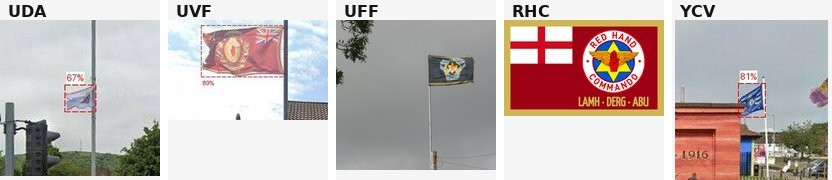
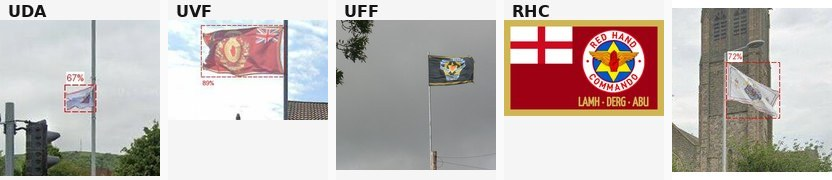
Use Freedom Corner white YCV flag as classic org exemplar.
White field + red-hand/shamrock is a common YCV variant reviewers were missing; update miniature, strip, and org hint text.

Changed region(s): [[0.7812, 0.0278, 1.0, 1.0]]

diff --git a/streamlit_app.py b/streamlit_app.py
@@ -35,7 +35,7 @@ ORG_PATTERNS = [
     ("UVF", "#6B3FA0", "purple / mauve field, central roundel (crown + Red Hand)"),
     ("UFF", "#212121", "black field, yellow star + fist/Red Hand, Feriens Tego / Ulster Freedom Fighters"),
     ("RHC", "#B71C1C", "red field, Red Hand Commando badge / fist motif"),
-    ("YCV", "#1A237E", "modern: navy + thin white stripes + white star/circle with Red Hand"),
+    ("YCV", "#1A237E", "classic: white field + red hand on shamrock; also navy + white stripes / star"),
 ]
 
 
@@ -47,7 +47,7 @@ def _org_label(code: str) -> str:
         "UVF": "UVF — purple + roundel",
         "UFF": "UFF — black + Feriens Tego",
         "RHC": "RHC — red + Red Hand",
-        "YCV": "YCV — navy + white stripes",
+        "YCV": "YCV — white + shamrock / navy stripes",
         "other_proscribed": "other_proscribed",
         "non_paramilitary": "non_paramilitary",
         "unknown": "unknown",
@@ -81,7 +81,7 @@ def _render_org_guide() -> None:
     with st.expander("Show miniature org examples", expanded=False):
         if strip.exists():
             st.image(str(strip), width="stretch",
-                     caption="Clear exemplars — UDA · UVF · UFF · RHC · modern YCV")
+                     caption="Clear exemplars — UDA · UVF · UFF · RHC · classic YCV (white)")
         cols = st.columns(5)
         for col, code in zip(cols, ["UDA", "UVF", "UFF", "RHC", "YCV"]):
             thumb = examples / f"{code}.jpg"
